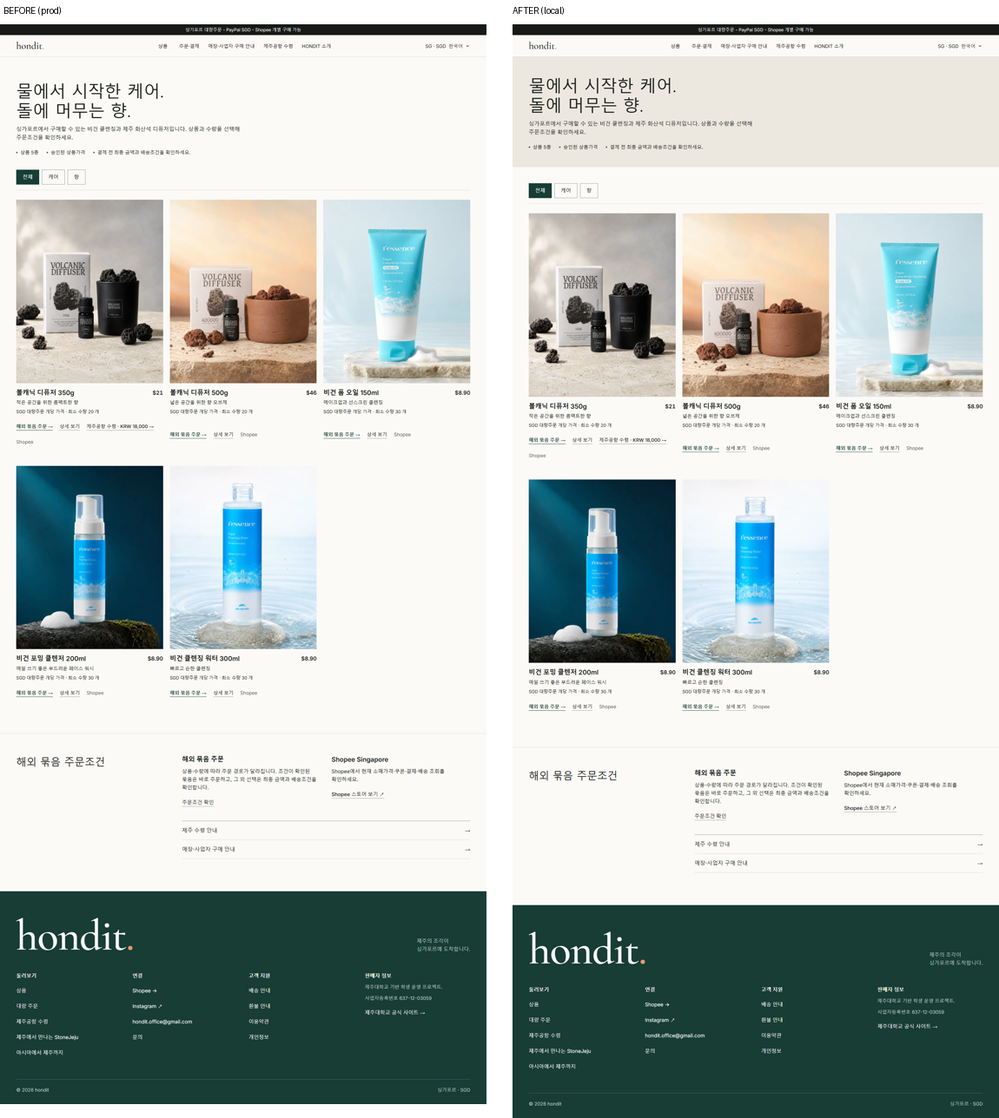
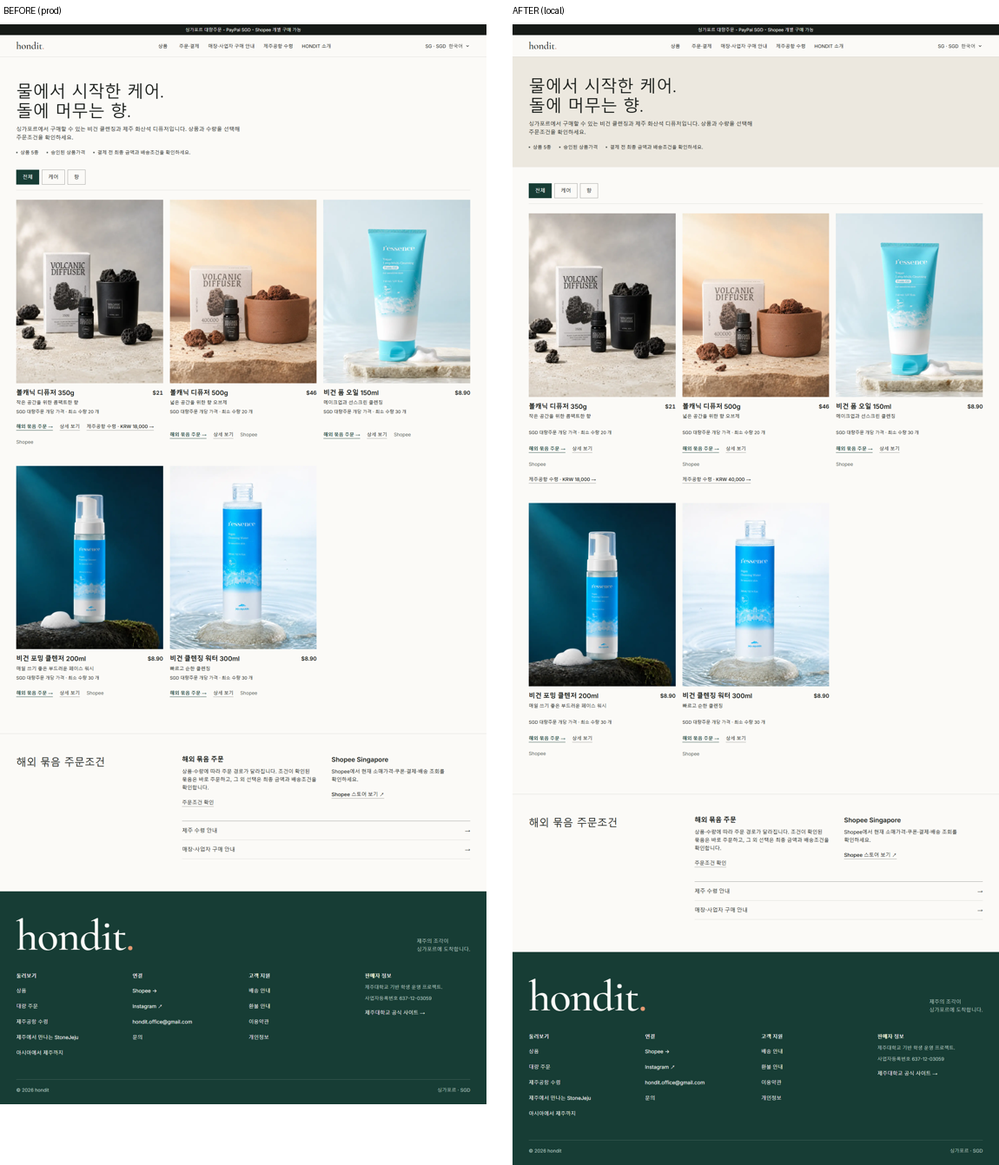
feat: editorial about page with market route and Jeju field guide; aligned product tiles with 500g airport pickup

diff --git a/src/styles/about.css b/src/styles/about.css
@@ -1,0 +1,130 @@
+/*
+ * About (/jeju) — an editorial page, not a dashboard.
+ * Film first, then one map from the visitor's market to Jeju, the campus, six real coordinates,
+ * the four senses band, and one forest field to act. Brand tokens from home-redesign.css.
+ */
+body.hd-site main.about-page { overflow-x: clip; }
+body.hd-site main.about-page .v23-eyebrow { display: none; }
+
+/* ---------- Film hero ---------- */
+.about-hero { position: relative; display: grid; align-items: end; min-height: min(82vh, 820px); margin: 0; color: #fff; background: #0f1c19; overflow: hidden; }
+.about-hero video { position: absolute; inset: 0; width: 100%; height: 100%; object-fit: cover; }
+.about-hero::after { content: ""; position: absolute; inset: 0; background: linear-gradient(180deg, rgba(10, 20, 17, 0.05) 20%, rgba(10, 20, 17, 0.72) 100%); pointer-events: none; }
+.about-hero__copy { position: relative; z-index: 1; display: grid; gap: 16px; max-width: 980px; padding: 0 var(--hd-gutter) clamp(40px, 7vh, 80px); text-shadow: 0 1px 18px rgba(0, 0, 0, 0.25); }
+body.hd-site main.about-page .about-hero h1 { margin: 0 !important; color: #fff !important; font-size: clamp(40px, 5.2vw, 76px) !important; line-height: 1.08 !important; letter-spacing: -0.01em; }
+body.hd-site main.about-page .about-hero h1 em { font-style: normal; }
+.about-hero__copy > p:not(.about-hero__coords) { margin: 0; max-width: 560px; font-size: 18px; line-height: 1.6; color: rgba(255, 255, 255, 0.9); }
+.about-hero__coords { margin: 0; font-size: 13px; letter-spacing: 0.04em; color: rgba(255, 255, 255, 0.82); font-variant-numeric: tabular-nums; }
+.about-hero__copy a { justify-self: start; display: inline-flex; align-items: center; min-height: 44px; color: #fff; font-size: 16px; font-weight: 500; text-decoration: underline; text-underline-offset: 6px; text-decoration-color: rgba(255, 255, 255, 0.5); }
+
+/* ---------- Market → Jeju route ---------- */
+.about-route { display: grid; grid-template-columns: minmax(0, 5fr) minmax(0, 7fr); gap: clamp(32px, 5vw, 88px); align-items: center; max-width: 1440px; margin: 0 auto; padding: var(--section-gap, 112px) var(--hd-gutter); }
+.about-route__copy { display: grid; gap: 20px; align-content: start; }
+body.hd-site main.about-page .about-route h2 { margin: 0 !important; font-size: clamp(32px, 3.4vw, 52px) !important; line-height: 1.12 !important; }
+.about-route__copy > p { margin: 0; max-width: 460px; font-size: 17px; line-height: 1.65; color: var(--hd-muted); }
+.about-route__steps { margin: 8px 0 0; padding: 0; list-style: none; border-top: 2px solid var(--hd-ink); }
+.about-route__steps li { display: grid; grid-template-columns: 44px minmax(0, 1fr) auto; align-items: baseline; gap: 12px; padding: 16px 0; border-bottom: 1px solid var(--hd-line, rgba(22, 26, 23, 0.14)); }
+.about-route__steps span { font-family: var(--hd-serif); font-size: 22px; color: var(--hd-brand, #173d35); }
+.about-route__steps b { font-size: 18px; font-weight: 600; }
+.about-route__steps small { font-size: 14px; color: var(--hd-muted); text-align: right; }
+.about-route__steps li:last-child b { color: var(--hd-brand, #173d35); }
+.about-route__distance { margin: 0; font-size: 15px; color: var(--hd-muted); }
+.about-route__distance strong { margin-left: 4px; font-size: 22px; font-weight: 600; color: var(--hd-ink); font-variant-numeric: tabular-nums; }
+.about-route__map { margin: 0; aspect-ratio: 1; background: #e6e2d8; }
+.about-route__map svg { display: block; width: 100%; height: 100%; }
+.about-map__sea { fill: #e6e2d8; }
+.about-route__map path { fill: #f7f5ef; stroke: rgba(22, 26, 23, 0.22); stroke-width: 0.25; }
+.about-route__map path.is-korea { fill: var(--hd-brand, #173d35); stroke: none; }
+.about-route__map path.is-market { fill: #e2c3ab; stroke: rgba(122, 58, 28, 0.5); }
+.about-route__map path.about-map__route { fill: none; stroke: #8a3f1f; stroke-width: 0.7; stroke-dasharray: 2 1.6; stroke-linecap: round; }
+.about-map__market { fill: #8a3f1f; stroke: #fff; stroke-width: 0.7; }
+.about-map__jeju { fill: var(--hd-brand, #173d35); stroke: #fff; stroke-width: 1; }
+.about-map__label { font-family: var(--hd-sans), var(--hd-cjk, sans-serif); font-size: 5px; font-weight: 600; fill: var(--hd-ink); paint-order: stroke; stroke: #f7f5ef; stroke-width: 1.4px; }
+.about-map__label.is-strong { font-size: 6px; fill: var(--hd-brand, #173d35); }
+.about-map__label.is-quiet { font-size: 4.2px; font-weight: 500; fill: #f7f5ef; stroke: none; }
+@media (prefers-reduced-motion: no-preference) {
+  .about-route__map path.about-map__route { stroke-dashoffset: 40; animation: about-route-draw 2.4s cubic-bezier(0.32, 0.72, 0, 1) 0.3s both; }
+}
+@keyframes about-route-draw { from { stroke-dashoffset: 40; } to { stroke-dashoffset: 0; } }
+
+/* ---------- Campus origin: picture large, no frame ---------- */
+.about-origin { display: grid; grid-template-columns: minmax(0, 7fr) minmax(0, 5fr); gap: clamp(32px, 5vw, 80px); align-items: end; max-width: 1440px; margin: 0 auto; padding: 0 var(--hd-gutter) var(--section-gap, 112px); }
+.about-origin > div { order: 2; display: grid; gap: 18px; align-content: end; }
+.about-origin > figure { order: 1; margin: 0; }
+.about-origin > figure img { display: block; width: 100%; aspect-ratio: 4 / 3; object-fit: cover; }
+.about-origin > figure figcaption { display: flex; gap: 12px; align-items: baseline; margin-top: 10px; font-size: 13px; color: var(--hd-muted); }
+.about-origin > figure figcaption b { font-family: var(--hd-serif); font-size: 18px; color: var(--hd-ink); }
+.about-origin > figure figcaption br { display: none; }
+.about-origin > figure figcaption span::after { content: ""; }
+body.hd-site main.about-page .about-origin h2 { margin: 0 !important; font-size: clamp(30px, 3vw, 46px) !important; line-height: 1.15 !important; }
+.about-origin p { margin: 0; font-size: 17px; line-height: 1.7; }
+.about-origin address { display: grid; gap: 4px; padding: 16px 0; border-top: 2px solid var(--hd-ink); border-bottom: 1px solid var(--hd-line, rgba(22, 26, 23, 0.14)); font-style: normal; font-size: 15px; }
+.about-origin address span { font-size: 13px; font-weight: 600; letter-spacing: 0.04em; }
+.about-origin a { justify-self: start; display: inline-flex; align-items: center; min-height: 44px; color: var(--hd-ink); text-decoration: underline; text-underline-offset: 5px; }
+
+/* ---------- Six coordinates ---------- */
+.about-field { padding: var(--section-gap, 112px) var(--hd-gutter); background: #ece8df; }
+.about-field__head { display: grid; grid-template-columns: minmax(0, 5fr) minmax(0, 7fr); gap: clamp(32px, 5vw, 88px); align-items: end; max-width: 1440px; margin: 0 auto 40px; }
+body.hd-site main.about-page .about-field h2 { margin: 0 !important; font-size: clamp(30px, 3vw, 46px) !important; line-height: 1.15 !important; }
+.about-field__head p { margin: 0; max-width: 520px; font-size: 16px; line-height: 1.6; color: var(--hd-muted); }
+.about-field__grid { display: grid; grid-template-columns: minmax(0, 7fr) minmax(0, 5fr); grid-template-areas: "map place" "list place"; gap: 24px clamp(32px, 5vw, 72px); max-width: 1440px; margin: 0 auto; align-items: start; }
+.about-field__map { grid-area: map; margin: 0; background: #e2ddd1; }
+.about-field__map svg { display: block; width: 100%; height: auto; }
+.about-field__island { fill: #f7f5ef; stroke: rgba(22, 26, 23, 0.35); stroke-width: 0.18; }
+.about-field__pin { cursor: pointer; }
+.about-field__pin circle { fill: #fff; stroke: var(--hd-brand, #173d35); stroke-width: 0.35; transition: r 300ms cubic-bezier(0.32, 0.72, 0, 1); }
+.about-field__pin text { font-family: var(--hd-sans), sans-serif; font-size: 2.1px; font-weight: 700; text-anchor: middle; fill: var(--hd-brand, #173d35); pointer-events: none; }
+.about-field__pin.is-active circle { fill: var(--hd-brand, #173d35); }
+.about-field__pin.is-active text { fill: #fff; }
+.about-field__pin:focus-visible { outline: none; }
+.about-field__pin:focus-visible circle { stroke: var(--hd-ink); stroke-width: 0.6; }
+.about-field__list { grid-area: list; display: grid; grid-template-columns: repeat(2, minmax(0, 1fr)); gap: 0 24px; margin: 0; padding: 0; list-style: none; }
+.about-field__list button { border-radius: 0 !important; box-shadow: none !important; border-top: 0 !important; border-left: 0 !important; border-right: 0 !important; background: none !important; display: grid; grid-template-columns: 32px minmax(0, 1fr); grid-template-rows: auto auto; column-gap: 8px; width: 100%; min-height: 56px; padding: 12px 0; text-align: left; background: none; border: 0; border-bottom: 1px solid rgba(22, 26, 23, 0.16); color: var(--hd-ink); cursor: pointer; font: inherit; }
+.about-field__list button span { grid-row: 1 / span 2; font-size: 14px; font-weight: 700; color: var(--hd-brand, #173d35); font-variant-numeric: tabular-nums; }
+.about-field__list button b { font-size: 16px; font-weight: 600; }
+.about-field__list button small { font-size: 12.5px; color: var(--hd-muted); letter-spacing: 0.02em; }
+.about-field__list button[aria-pressed="true"] { border-bottom: 2px solid var(--hd-ink); }
+.about-field__list button[aria-pressed="true"] b { text-decoration: underline; text-underline-offset: 4px; }
+.about-field__place { grid-area: place; position: sticky; top: 96px; display: grid; gap: 0; background: var(--hd-paper, #fbfaf7); }
+.about-field__place img { display: block; width: 100%; aspect-ratio: 4 / 3; object-fit: cover; }
+.about-field__place > div { display: grid; gap: 10px; padding: 24px 24px 28px; }
+.about-field__place small { font-size: 13px; color: var(--hd-muted); font-variant-numeric: tabular-nums; }
+body.hd-site main.about-page .about-field__place h3 { margin: 0 !important; font-size: 26px !important; line-height: 1.25 !important; }
+.about-field__place p { margin: 0; font-size: 16px; line-height: 1.65; }
+.about-field__place address { font-style: normal; font-size: 14px; color: var(--hd-muted); }
+.about-field__links { display: flex; flex-wrap: wrap; gap: 4px 20px; font-size: 13px !important; }
+.about-field__links a { display: inline-flex; align-items: center; min-height: 40px; color: var(--hd-ink); text-decoration: underline; text-underline-offset: 4px; }
+.about-field__links a + a { color: var(--hd-muted); }
+
+/* ---------- Senses band stays; the closing action is the page's one forest field ---------- */
+body.hd-site .v23-jeju-page.about-page .about-cta { width: 100% !important; box-sizing: border-box !important; max-width: none !important; margin: 0 !important; box-shadow: 0 0 0 100vmax #173d35; clip-path: inset(0 -100vmax); display: grid; grid-template-columns: minmax(0, 6fr) minmax(0, 6fr); gap: 32px 64px; align-items: end; padding: 88px max(var(--hd-gutter), calc((100vw - 1440px) / 2 + var(--hd-gutter))) !important; background: #173d35 !important; color: #f4f1ea; }
+body.hd-site main.about-page .about-cta h2 { color: #f4f1ea !important; font-size: clamp(30px, 3vw, 46px) !important; line-height: 1.15 !important; }
+body.hd-site main.about-page .about-cta h2 em { font-style: normal; }
+body.hd-site main.about-page .about-cta p { color: rgba(244, 241, 234, 0.82) !important; font-size: 17px; }
+body.hd-site main.about-page .about-cta a { display: inline-flex; align-items: center; min-height: 52px; margin: 16px 12px 0 0; padding: 0 22px; background: #f4f1ea !important; color: #161a17 !important; border: 0 !important; font-weight: 600; text-decoration: none; }
+body.hd-site main.about-page .about-cta a + a { background: transparent !important; color: #f4f1ea !important; box-shadow: inset 0 0 0 1px rgba(244, 241, 234, 0.5); }
+
+@media (max-width: 1023px) {
+  .about-route, .about-origin, .about-field__head { grid-template-columns: minmax(0, 1fr); }
+  .about-origin > div { order: 1; }
+  .about-origin > figure { order: 2; }
+  .about-field__grid { grid-template-columns: minmax(0, 1fr); grid-template-areas: "map" "place" "list"; }
+  .about-field__place { position: static; }
+  body.hd-site .v23-jeju-page.about-page .about-cta { grid-template-columns: minmax(0, 1fr); padding: 64px var(--hd-gutter) !important; }
+}
+@media (max-width: 639px) {
+  .about-hero { min-height: 78vh; }
+  .about-hero__copy > p:not(.about-hero__coords) { font-size: 16px; }
+  .about-route { padding-top: 64px; padding-bottom: 64px; }
+  .about-field { padding-top: 64px; padding-bottom: 64px; }
+  .about-field__list { grid-template-columns: minmax(0, 1fr); }
+  .about-field__place > div { padding: 20px; }
+}
+
+@media (min-width: 1024px) { .about-field__grid { grid-template-columns: minmax(0, 8fr) minmax(0, 4fr); } }
+@media (max-width: 639px) {
+  body.hd-site main.about-page .about-hero h1 { font-size: 34px !important; }
+  .about-map__label { font-size: 8px; stroke-width: 2px; }
+  .about-map__label.is-strong { font-size: 9px; }
+  .about-map__label.is-quiet { font-size: 6px; }
+}

diff --git a/src/components/OriginJourney.tsx b/src/components/OriginJourney.tsx
@@ -1,0 +1,107 @@
+import { useEffect, useMemo, useState } from "react";
+import { aboutCopy } from "../data/aboutCopy";
+import { formatPlaceCoordinates, ourJejuPlaces } from "../data/v23JejuData";
+import { marketCountryName, marketText, useMarket } from "../lib/market";
+import { asiaIds, jejuViewBox, marketRoutes, projectJeju } from "./v23/GeoJourney";
+
+type SvgMap = { viewBox: string; locations: { id: string; path: string }[] };
+
+/* Jeju on the same projection the market markers were verified against (@svg-maps/world). */
+const jejuPoint = { x: 829.3, y: 367.4 };
+/* Reference city coordinates for the straight-line distance shown under the route. */
+const marketCities: Record<string, [number, number]> = { SG: [1.29, 103.85], MY: [3.14, 101.69], TH: [13.76, 100.5], HK: [22.32, 114.17], MO: [22.2, 113.54], TW: [25.03, 121.56], JP: [35.68, 139.69], BN: [4.94, 114.95] };
+const JEJU: [number, number] = [33.5, 126.53];
+
+function kilometres([lat1, lon1]: [number, number], [lat2, lon2]: [number, number]) {
+  const r = Math.PI / 180, a = Math.sin(((lat2 - lat1) * r) / 2) ** 2 + Math.cos(lat1 * r) * Math.cos(lat2 * r) * Math.sin(((lon2 - lon1) * r) / 2) ** 2;
+  return Math.round((6371 * 2 * Math.asin(Math.sqrt(a))) / 50) * 50;
+}
+
+/** One map from the visitor's market to Jeju: no tabs, no side panels, only the three places that matter. */
+export function OriginRoute() {
+  const { market, language } = useMarket();
+  const t = (s: string) => marketText(language, s);
+  const c = aboutCopy(language);
+  const [world, setWorld] = useState<SvgMap | null>(null);
+  useEffect(() => { import("@svg-maps/world").then((m) => setWorld(m.default as SvgMap)).catch(() => undefined); }, []);
+  const route = marketRoutes[market.code];
+  const country = marketCountryName(market, language);
+  const km = kilometres(marketCities[market.code] ?? marketCities.SG, JEJU);
+  const mid = { x: (route.x + jejuPoint.x) / 2 + 26, y: (route.y + jejuPoint.y) / 2 + 6 };
+  const asia = useMemo(() => (world?.locations || []).filter((l) => asiaIds.has(l.id)), [world]);
+  return <section className="about-route" aria-labelledby="about-route-title">
+    <div className="about-route__copy">
+      <h2 id="about-route-title">{c.route(country)}</h2>
+      <p>{c.routeBody}</p>
+      <ol className="about-route__steps">
+        <li><span>01</span><b>{country}</b><small>{t("Market connection")}</small></li>
+        <li><span>02</span><b>{c.korea}</b><small>{t("Country context")}</small></li>
+        <li><span>03</span><b>{c.jeju}</b><small>{c.origin}</small></li>
+      </ol>
+      <p className="about-route__distance">{c.distance} <strong>{km.toLocaleString("en-US")} km</strong></p>
+    </div>
+    <figure className="about-route__map">
+      <svg viewBox="700 290 190 190" role="img" aria-label={c.route(country)}>
+        <rect x="700" y="290" width="190" height="190" className="about-map__sea" />
+        {asia.map((l) => <path key={l.id} d={l.path} className={l.id === "kr" ? "is-korea" : l.id === route.mapId ? "is-market" : ""} />)}
+        <path className="about-map__route" d={`M ${route.x} ${route.y} Q ${mid.x} ${mid.y} ${jejuPoint.x} ${jejuPoint.y}`} />
+        <circle className="about-map__market" cx={route.x} cy={route.y} r="2.6" />
+        <circle className="about-map__jeju" cx={jejuPoint.x} cy={jejuPoint.y} r="3.2" />
+        <text className="about-map__label" x={route.x - 4} y={route.y + 9} textAnchor="end">{country}</text>
+        <text className="about-map__label is-strong" x={jejuPoint.x + 5} y={jejuPoint.y + 4}>{c.jeju}</text>
+        <text className="about-map__label is-quiet" x="836" y="343">{c.korea}</text>
+      </svg>
+    </figure>
+  </section>;
+}
+
+/** The six real places on Jeju, as a numbered map beside a list. Choosing either opens the place. */
+export function JejuFieldGuide() {
+  const { language } = useMarket();
+  const t = (s: string) => marketText(language, s);
+  const c = aboutCopy(language);
+  const [korea, setKorea] = useState<SvgMap | null>(null);
+  const [activeId, setActiveId] = useState(ourJejuPlaces[0].id);
+  useEffect(() => { import("@svg-maps/south-korea").then((m) => setKorea(m.default as SvgMap)).catch(() => undefined); }, []);
+  const shape = korea?.locations.find((l) => l.id === "jeju");
+  const active = ourJejuPlaces.find((p) => p.id === activeId) ?? ourJejuPlaces[0];
+  const mark = (index: number) => String(index + 1).padStart(2, "0");
+  return <section className="about-field" aria-labelledby="about-field-title">
+    <header className="about-field__head">
+      <h2 id="about-field-title">{c.field}</h2>
+      <p>{c.fieldBody}</p>
+    </header>
+    <div className="about-field__grid">
+      <figure className="about-field__map">
+        <svg viewBox={`${jejuViewBox.x + 6} ${jejuViewBox.y + 3} ${jejuViewBox.width - 12} ${jejuViewBox.height - 12}`} role="group" aria-label={t("Jeju Island outline")}>
+          {shape && <path d={shape.path} className="about-field__island" />}
+          {ourJejuPlaces.map((place, index) => {
+            const p = projectJeju(place), on = place.id === active.id;
+            return <g key={place.id} className={on ? "about-field__pin is-active" : "about-field__pin"} transform={`translate(${p.x} ${p.y})`}
+              role="button" tabIndex={0} aria-pressed={on} aria-label={t(place.name)}
+              onClick={() => setActiveId(place.id)} onKeyDown={(e) => { if (e.key === "Enter" || e.key === " ") { e.preventDefault(); setActiveId(place.id); } }}>
+              <circle r={on ? 3.1 : 2.4} /><text y="0.95">{mark(index)}</text>
+            </g>;
+          })}
+        </svg>
+      </figure>
+      <ol className="about-field__list">
+        {ourJejuPlaces.map((place, index) => <li key={place.id}>
+          <button type="button" aria-pressed={place.id === active.id} onClick={() => setActiveId(place.id)}>
+            <span>{mark(index)}</span><b>{t(place.name)}</b><small>{t(place.category)}</small>
+          </button>
+        </li>)}
+      </ol>
+      <article className="about-field__place" aria-live="polite">
+        <img src={active.image} alt={t(active.alt)} loading="lazy" />
+        <div>
+          <small>{formatPlaceCoordinates(active)}</small>
+          <h3>{t(active.name)}</h3>
+          <p>{t(active.description)}</p>
+          <address>{t(active.location)}</address>
+          <p className="about-field__links"><a href={active.officialUrl} target="_blank" rel="noreferrer">{c.official} ↗</a><a href={active.photoUrl} target="_blank" rel="noreferrer">{c.credit}: {active.photoCredit}</a></p>
+        </div>
+      </article>
+    </div>
+  </section>;
+}

diff --git a/src/data/aboutCopy.ts b/src/data/aboutCopy.ts
@@ -1,0 +1,15 @@
+import type { DisplayLanguage } from "../lib/market";
+
+/* About page (/jeju): route and field-guide labels. Distances are computed great-circle figures, labelled as approximate. */
+const copy = {
+  ko: { route: (m: string) => `${m}에서 제주까지`, routeBody: "HONDIT의 상품은 제주에서 고르고 한국에서 발송합니다. 지금 보고 계신 시장에서 시작해 제주까지의 길을 한 장의 지도로 보여드립니다.", distance: "직선거리 약", market: "시장", korea: "한국", jeju: "제주", origin: "HONDIT이 시작된 곳", field: "제주 여섯 곳의 좌표", fieldBody: "지도 위 번호나 목록을 고르면 그 장소의 사진과 설명이 열립니다.", credit: "사진", official: "공식 안내" },
+  en: { route: (m: string) => `From ${m} to Jeju`, routeBody: "HONDIT selects in Jeju and ships from Korea. This map starts in the market you are viewing and follows the line back to the island.", distance: "Straight-line distance about", market: "Market", korea: "Korea", jeju: "Jeju", origin: "Where HONDIT began", field: "Six coordinates on Jeju", fieldBody: "Choose a number on the map or a row in the list to open that place.", credit: "Photo", official: "Official guide" },
+  ja: { route: (m: string) => `${m}から済州へ`, routeBody: "HONDITは済州で選び、韓国から発送します。ご覧の市場から済州までの道のりを一枚の地図でお見せします。", distance: "直線距離 約", market: "市場", korea: "韓国", jeju: "済州", origin: "HONDITが始まった場所", field: "済州 6か所の座標", fieldBody: "地図の番号かリストを選ぶと、その場所の写真と説明が開きます。", credit: "写真", official: "公式案内" },
+  zh: { route: (m: string) => `從${m}到濟州`, routeBody: "HONDIT 在濟州挑選商品，從韓國出貨。這張地圖從您正在瀏覽的市場出發，一路連到濟州。", distance: "直線距離約", market: "市場", korea: "韓國", jeju: "濟州", origin: "HONDIT 的起點", field: "濟州六個地點的座標", fieldBody: "選擇地圖上的編號或清單，即可查看該地點的照片與介紹。", credit: "照片", official: "官方介紹" },
+  ms: { route: (m: string) => `Dari ${m} ke Jeju`, routeBody: "HONDIT memilih produk di Jeju dan menghantar dari Korea. Peta ini bermula di pasaran yang anda lihat dan menyusuri laluan kembali ke pulau itu.", distance: "Jarak garis lurus kira-kira", market: "Pasaran", korea: "Korea", jeju: "Jeju", origin: "Tempat HONDIT bermula", field: "Enam koordinat di Jeju", fieldBody: "Pilih nombor pada peta atau baris dalam senarai untuk membuka tempat itu.", credit: "Foto", official: "Panduan rasmi" },
+  th: { route: (m: string) => `จาก${m}ถึงเชจู`, routeBody: "HONDIT คัดสินค้าที่เชจูและจัดส่งจากเกาหลี แผนที่นี้เริ่มจากตลาดที่คุณกำลังดูและลากเส้นกลับไปยังเกาะ", distance: "ระยะทางเส้นตรงประมาณ", market: "ตลาด", korea: "เกาหลี", jeju: "เชจู", origin: "จุดเริ่มต้นของ HONDIT", field: "พิกัดหกแห่งบนเชจู", fieldBody: "เลือกหมายเลขบนแผนที่หรือรายการเพื่อเปิดดูสถานที่นั้น", credit: "ภาพ", official: "ข้อมูลทางการ" },
+};
+
+export function aboutCopy(language: DisplayLanguage) {
+  return copy[language === "zh" || language === "zh-HK" || language === "zh-TW" ? "zh" : language];
+}

diff --git a/src/pages/JejuPage.tsx b/src/pages/JejuPage.tsx
@@ -1,7 +1,7 @@
 import { stonejejuMediaCopy } from "../data/stonejejuMediaCopy";
 import { marketText, useMarket } from "../lib/market";
 import { Link } from "react-router-dom";
-import { V23GeoJourney } from "../components/v23/GeoJourney";
+import { JejuFieldGuide, OriginRoute } from "../components/OriginJourney";
 import { V23Page } from "../components/v23/SiteChrome";
 import { MaterialBand } from "../components/MaterialBand";
 
@@ -11,27 +11,22 @@ export function JejuPage() {
   const mediaCopy = stonejejuMediaCopy(language);
   return (
     <V23Page>
-      <main className="v23-jeju-page">
-        <section className="v23-our-jeju-hero">
-          <div>
-            <p className="v23-eyebrow"><span />{marketText(language,"OUR JEJU - PROJECT ORIGIN")}</p>
+      <main className="v23-jeju-page about-page">
+        <section className="about-hero">
+          <video autoPlay muted loop playsInline preload="metadata" poster="/images/jeju-field-seongsan.webp" aria-label="Gentle sea movement along the Jeju coast">
+            <source src="/images/jeju-sea-motion.mp4" type="video/mp4" />
+          </video>
+          <div className="about-hero__copy">
+            <p className="about-hero__coords">33.4580 N - 126.9425 E · {marketText(language,"Sea rhythm, Jeju Island")}</p>
             <h1>{marketText(language,"Not a theme.")}<br /><em>{marketText(language,"A real place.")}</em></h1>
             <p>{marketText(language,"hondit began in Jeju. This page shows the campus, coast, forest and volcanic landscapes behind the way we select and present everyday care and scent.")}</p>
             <a href="#field-guide">{marketText(language,"Open the Jeju field guide ->")}</a>
           </div>
-          <figure>
-            <video autoPlay muted loop playsInline preload="metadata" poster="/images/jeju-field-seongsan.webp" aria-label="Gentle sea movement along the Jeju coast">
-              <source src="/images/jeju-sea-motion.mp4" type="video/mp4" />
-            </video>
-            <figcaption><span>33.4580 N - 126.9425 E</span><strong>{marketText(language,"Sea rhythm, Jeju Island")}</strong></figcaption>
-          </figure>
         </section>
 
-        <div id="field-guide">
-          <V23GeoJourney />
-        </div>
+        <OriginRoute />
 
-        <section className="v23-our-jeju-origin">
+        <section className="about-origin">
           <div>
             <p className="v23-eyebrow"><span />{marketText(language,"HONDIT HOME - ARA CAMPUS")}</p>
             <h2>{marketText(language,"Built by students,")}<br /><em>{marketText(language,"grounded in Jeju.")}</em></h2>
@@ -45,6 +40,10 @@ export function JejuPage() {
           </figure>
         </section>
 
+        <div id="field-guide">
+          <JejuFieldGuide />
+        </div>
+
         <section className="v23-jeju-notes v23-jeju-notes--band">
           <header>
             <p className="v23-eyebrow"><span />{marketText(language,"THREE REFERENCES")}</p>
@@ -53,7 +52,7 @@ export function JejuPage() {
           <MaterialBand />
         </section>
 
-        <section className="v23-soft-cta">
+        <section className="v23-soft-cta about-cta">
           <div>
             <p className="v23-eyebrow"><span />{marketText(language,"FROM PLACE TO RITUAL")}</p>
             <h2>{marketText(language,"Bring a quieter piece")}<br /><em>{marketText(language,"of Jeju into everyday life.")}</em></h2>

diff --git a/src/components/home/ProductTile.tsx b/src/components/home/ProductTile.tsx
@@ -8,6 +8,8 @@ import { formatMarketUnitMoney, marketProductText, marketText, useMarket } from 
 export function ProductTile({ product, query }: { product: StorefrontProduct; query: string }) {
   const { market, language } = useMarket();
   const name = marketProductText(language, product.name);
+  /* Both diffusers can be collected at Jeju Airport; the amount comes from the shared pickup price table. */
+  const pickupSize = product.slug === "diffuser-350g" ? "350g" : product.slug === "diffuser-500g" ? "500g" : null;
   const outOfStock = typeof product.stockQuantity === "number" && product.stockQuantity < product.bulkMoq;
   return <li>
     <article className="hd-tile v23-product-card" data-item-id={product.slug} data-item-name={name} data-item-category={product.category}
@@ -22,10 +24,12 @@ export function ProductTile({ product, query }: { product: StorefrontProduct; qu
         <p className="hd-tile__desc">{marketProductText(language, product.detail)}</p>
         <p className="hd-tile__terms">{marketText(language, `${market.currency} BULK UNIT PRICE`, `${market.currency} BULK UNIT PRICE`)} · {marketText(language, "Minimum")} {product.bulkMoq} {marketText(language, "units")}</p>
         <div className="hd-tile__links">
-          <Link className="hd-textlink hd-textlink--order" to={`/bulk-orders?product=${product.slug}`}>{marketText(language, "Overseas bundle orders")} →</Link>
-          <Link className="hd-textlink" to={`/products/${product.slug}${query}`}>{marketText(language, "View details", "View details")}</Link>
-          {product.slug==='diffuser-350g'&&<Link className="hd-textlink hd-tile__pickup" to={`/jeju/pickup?market=${market.code}&lang=${language}`}>{salesPresentationCopy(language).pickupNav} · KRW {pickupRequestTotal(1).toLocaleString('en-US')} →</Link>}
+          <p className="hd-tile__primary">
+            <Link className="hd-textlink hd-textlink--order" to={`/bulk-orders?product=${product.slug}`}>{marketText(language, "Overseas bundle orders")} →</Link>
+            <Link className="hd-textlink" to={`/products/${product.slug}${query}`}>{marketText(language, "View details", "View details")}</Link>
+          </p>
           {market.hasShopee && <details className="hd-tile__retail"><summary>Shopee</summary><a href={product.shopee} target="_blank" rel="noreferrer">{marketText(language, "Buy on Shopee")} ↗</a></details>}
+          {pickupSize&&<Link className="hd-textlink hd-tile__pickup" to={`/jeju/pickup?market=${market.code}&lang=${language}`}>{salesPresentationCopy(language).pickupNav} · KRW {pickupRequestTotal(1,pickupSize).toLocaleString('en-US')} →</Link>}
         </div>
       </div>
     </article>

diff --git a/src/components/v23/GeoJourney.tsx b/src/components/v23/GeoJourney.tsx
@@ -11,7 +11,7 @@ type SvgMap = { viewBox: string; locations: SvgLocation[] };
 const koreaRoutePoint = { x: 833.76, y: 350.7 } as const;
 
 // Marker centres are verified against the same @svg-maps/world country paths rendered below.
-const marketRoutes = {
+export const marketRoutes = {
   SG: { mapId: "sg", x: 766.05, y: 459.14, curve: "M 766.05 459.14 C 789 429, 814 383, 833.76 350.7" },
   HK: { mapId: "hk", x: 794.95, y: 398.71, curve: "M 794.95 398.71 C 807 383, 821 364, 833.76 350.7" },
   TW: { mapId: "tw", x: 814.49, y: 392.68, curve: "M 814.49 392.68 C 822 379, 828 363, 833.76 350.7" },
@@ -22,7 +22,7 @@ const marketRoutes = {
   MY: { mapId: "my", x: 761.73, y: 450.23, curve: "M 761.73 450.23 C 787 422, 814 376, 833.76 350.7" },
 } as const;
 
-const asiaIds = new Set([
+export const asiaIds = new Set([
   "kr", "kp", "jp", "cn", "mn", "kz", "in", "bd", "mm", "th", "vn", "my", "sg", "hk", "id", "ph", "tw", "la", "kh", "np", "bt", "pk", "af", "lk", "bn", "mo",
 ]);
 
@@ -73,10 +73,10 @@ const koreaHighlights = [
   },
 ] as const;
 
-const jejuViewBox = { x: 65, y: 584, width: 96, height: 52 };
+export const jejuViewBox = { x: 65, y: 584, width: 96, height: 52 };
 const jejuPathBox = { x: 73.744286, y: 588.55884, width: 76.780004, height: 41.73 };
 
-function projectJeju(place: OurJejuPlace) {
+export function projectJeju(place: OurJejuPlace) {
   const x = jejuPathBox.x + ((place.lon - ourJejuBounds.west) / (ourJejuBounds.east - ourJejuBounds.west)) * jejuPathBox.width;
   const y = jejuPathBox.y + ((ourJejuBounds.north - place.lat) / (ourJejuBounds.north - ourJejuBounds.south)) * jejuPathBox.height;
   return { x: Number(x.toFixed(2)), y: Number(y.toFixed(2)) };

diff --git a/src/styles/commerce-v4.css b/src/styles/commerce-v4.css
@@ -210,3 +210,16 @@ body.hd-site main .order-cta { min-width: 0; max-width: 100%; height: auto; padd
 body.hd-site main .order-cta span { min-width: 0; white-space: normal; line-height: 1.3; }
 body.hd-site .order-bar .order-bar__sum strong { color: var(--v4-on-forest, #f4f1ea) !important; }
 body.hd-site .order-bar .order-bar__sum span, body.hd-site .order-bar .order-bar__sum small { color: var(--v4-on-forest-soft, rgba(244, 241, 234, 0.78)) !important; }
+
+/* =========================================================
+ * Product tiles: every tile shares the same rows, so names, terms and links line up across a row.
+ *   name/price · description · terms · (space) · order + details · Shopee · airport pickup (diffusers)
+ * ========================================================= */
+.hd-tile__body { grid-template-rows: auto auto auto auto 1fr !important; }
+.hd-tile__body > .hd-tile__links { grid-row: 4; align-self: start; display: grid !important; justify-items: start; gap: 0 !important; margin-top: 16px !important; }
+.hd-tile__primary { display: flex; flex-wrap: wrap; align-items: center; gap: 0 20px; margin: 0 !important; }
+.hd-tile__primary .hd-textlink { display: inline-flex; align-items: center; min-height: 44px; }
+.hd-tile__links .hd-tile__pickup { display: inline-flex; align-items: center; min-height: 44px; }
+.hd-tile__links .hd-tile__retail summary { min-height: 40px; }
+.hd-tile__desc { min-height: 3em; }
+.hd-tile__terms { min-height: 1.5em; }

diff --git a/src/main.tsx b/src/main.tsx
@@ -29,3 +29,4 @@ ReactDOM.createRoot(document.getElementById("root")!).render(
 import "./styles/checkout-flow.css";
 import './styles/sales-presentation.css';
 import "./styles/commerce-v4.css";
+import "./styles/about.css";
